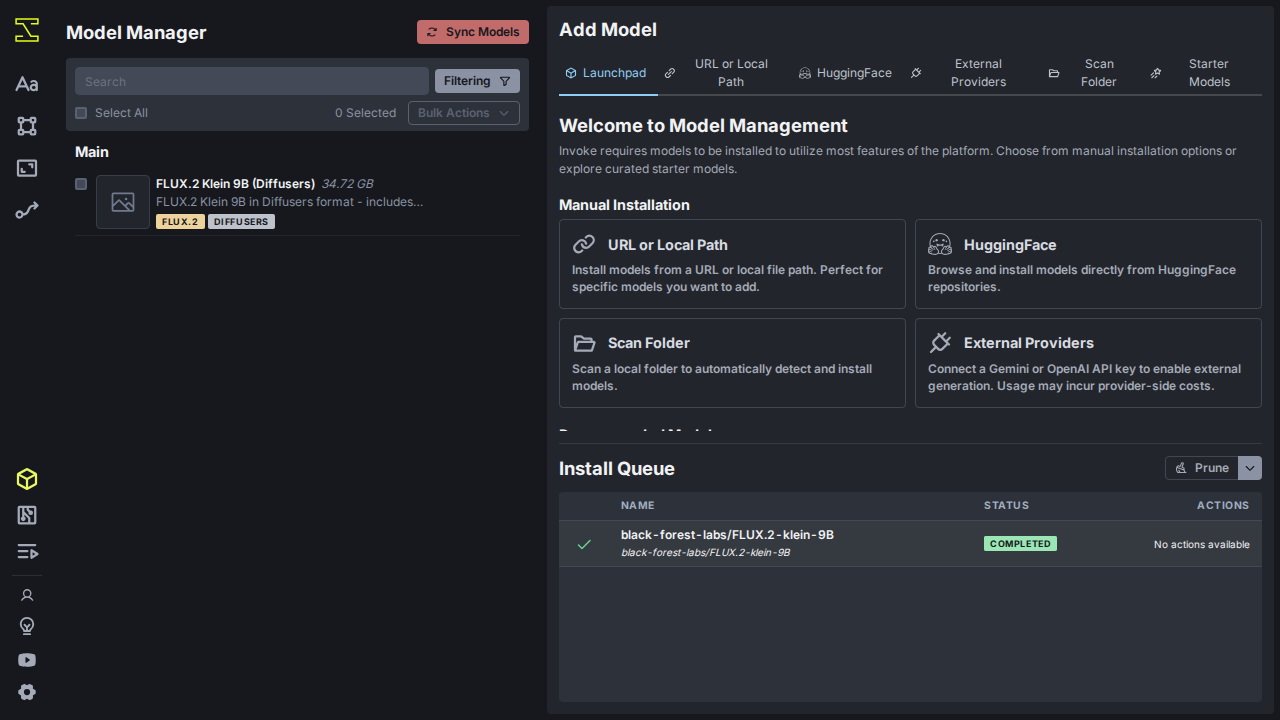
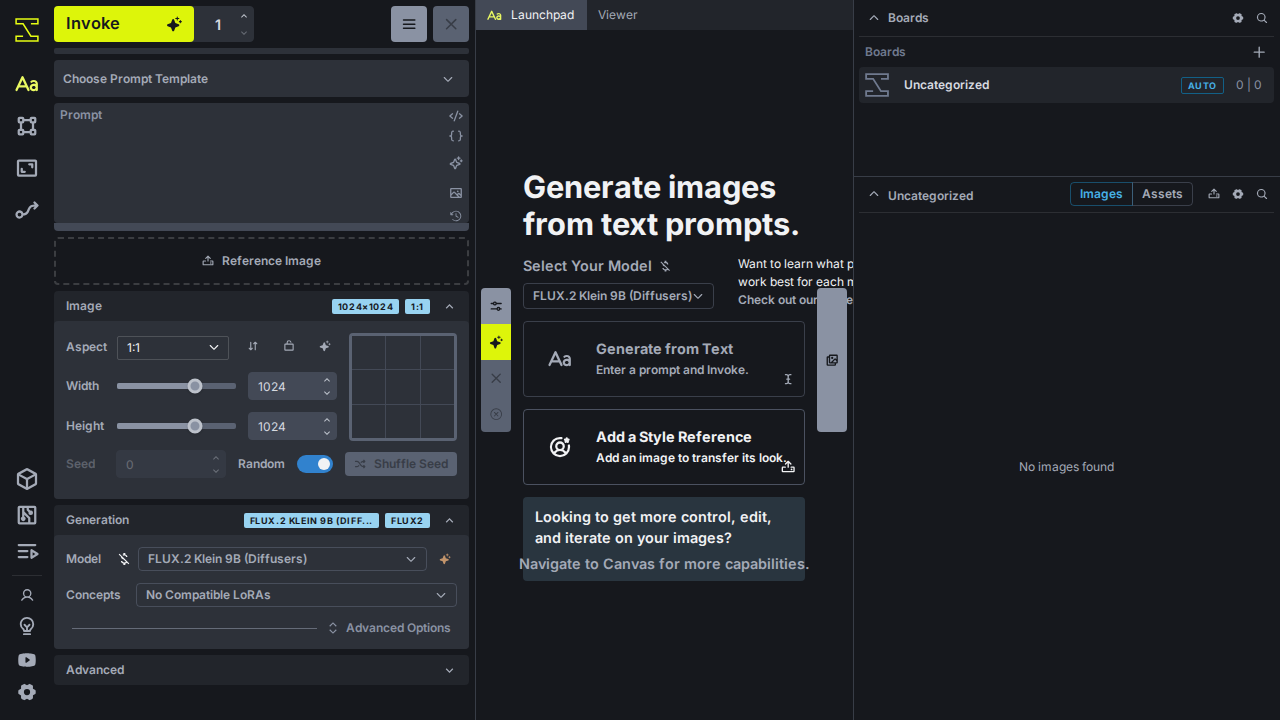
Use test IDs for page navigation

diff --git a/test_scripts/uiclient_test.py b/test_scripts/uiclient_test.py
@@ -38,11 +38,8 @@ def main():
         upscaling_page = UpscalingPage(page)
 
         generate_page.select_page()
-
-        #print("Textboxes:", page.get_by_role("textbox").count())
-        #base_page.save_elements_snapshot(snapshot_path)
-        #print(snapshot)
-        #print(f"Saved snapshot to {snapshot_path}")
+        canvas_page.select_page() 
+        upscaling_page.select_page() 
 
         browser.close()
 

diff --git a/src/contextmanager/uiclient/invokeai/base_page.py b/src/contextmanager/uiclient/invokeai/base_page.py
@@ -9,7 +9,7 @@ class BasePage:
         self.page = page
 
     def select_page(self):
-        self.page.get_by_role("button", name=self.PAGE_BUTTON).click()
+        self.page.get_by_test_id(self.PAGE_BUTTON).click()
         self.wait_until_dom_stable()
 
 

diff --git a/src/contextmanager/uiclient/invokeai/upscaling_page.py b/src/contextmanager/uiclient/invokeai/upscaling_page.py
@@ -1,2 +1,4 @@
-class UpscalingPage:
+from contextmanager.uiclient.invokeai.base_page import BasePage
+
+class UpscalingPage(BasePage):
     PAGE_BUTTON = "Upscaling"
